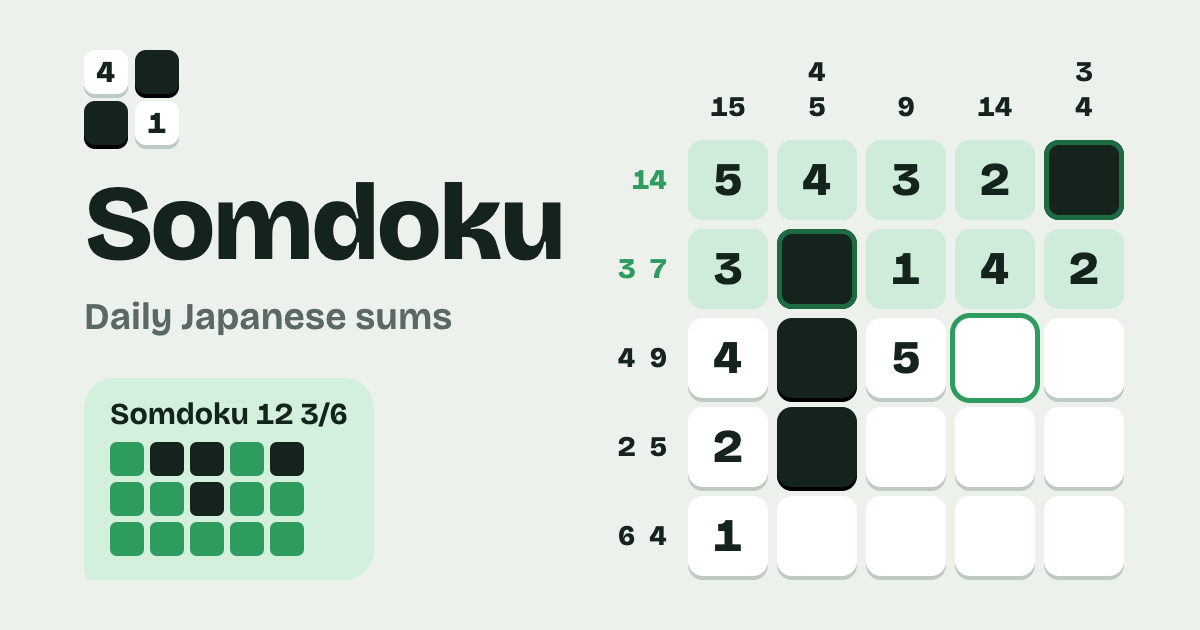
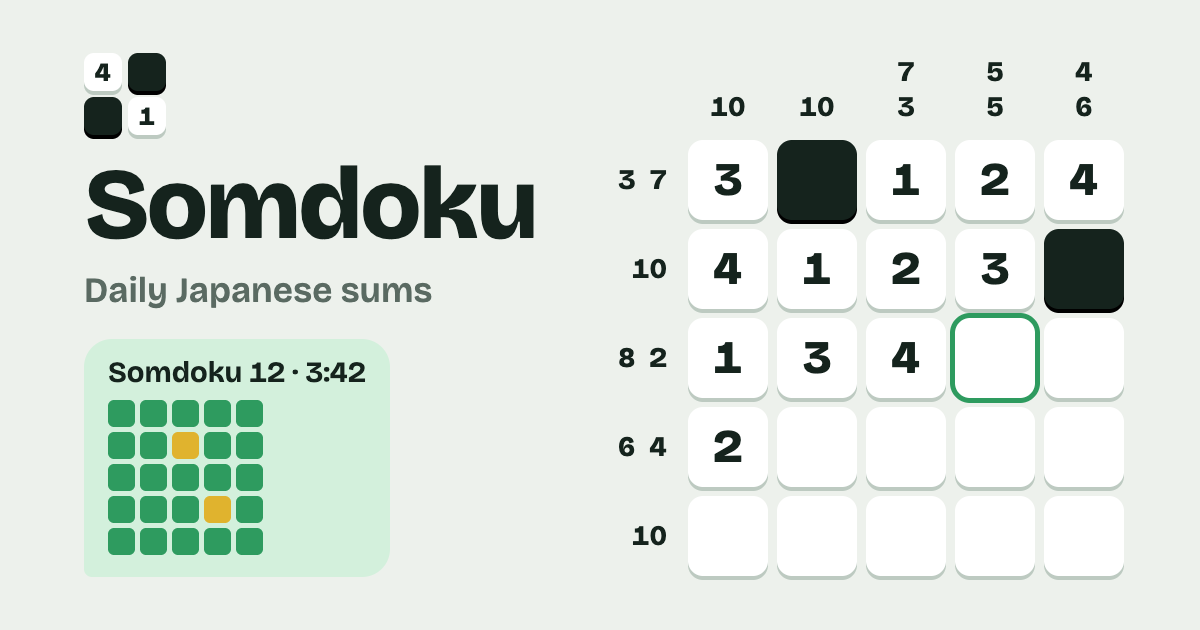
chore(art): update OG image for time score and timeline

diff --git a/art/og.html b/art/og.html
@@ -1,51 +1,50 @@
 <!doctype html>
-<!-- The picture WhatsApp shows with the link (public/og.png, 1200 x 630). To make it again:
-     "/Applications/Google Chrome.app/Contents/MacOS/Google Chrome" --headless=new --hide-scrollbars \
-       --force-device-scale-factor=1 --window-size=1200,630 --virtual-time-budget=4000 \
-       --screenshot=public/og.png art/og.html -->
+<!-- The picture WhatsApp shows with the link (public/og.png, 1200 x 630): the name, what a shared
+     score looks like, and a game under way. `npm run og` makes it again. The puzzle in it is not
+     one of the daily ones, so it gives nothing away. -->
 <meta charset="utf-8">
 <style>
   @font-face{font-family:B;font-weight:200 800;src:url("../node_modules/@fontsource-variable/bricolage-grotesque/files/bricolage-grotesque-latin-wght-normal.woff2") format("woff2-variations")}
   *{box-sizing:border-box;margin:0}
   body{width:1200px;height:630px;overflow:hidden;background:#EDF1EC;color:#15231D;font-family:B,sans-serif;font-variant-numeric:tabular-nums;
     display:grid;grid-template-columns:1fr auto;align-items:center;padding:0 76px 0 84px}
-  .mark{display:grid;grid-template-columns:repeat(2,44px);gap:7px;margin-bottom:26px}
-  .mark i{height:44px;border-radius:11px;background:#fff;box-shadow:0 4px 0 #BDCAC1;display:grid;place-items:center;font-style:normal;font-weight:800;font-size:30px}
+  .mark{display:grid;grid-template-columns:repeat(2,38px);gap:6px;margin-bottom:20px}
+  .mark i{height:38px;border-radius:10px;background:#fff;box-shadow:0 4px 0 #BDCAC1;display:grid;place-items:center;font-style:normal;font-weight:800;font-size:26px}
   .mark i.b{background:#15231D;box-shadow:0 4px 0 #000}
-  h1{font-size:106px;line-height:1;font-weight:800;letter-spacing:-.03em}
-  p{margin-top:18px;font-size:37px;line-height:1.2;font-weight:600;color:#5A6A62}
-  .bubble{display:inline-grid;gap:6px;margin-top:38px;padding:18px 26px 24px;background:#D3F0DC;border-radius:30px 30px 30px 8px}
-  .bubble b{font-size:30px;font-weight:650;margin-bottom:4px}
-  .bubble span{display:flex;gap:6px}
-  .bubble i{width:34px;height:34px;border-radius:7px;background:#2E9B5F}
-  .bubble i.x{background:#15231D}
+  h1{font-size:100px;line-height:1;font-weight:800;letter-spacing:-.03em}
+  p{margin-top:14px;font-size:35px;line-height:1.2;font-weight:600;color:#5A6A62}
+  /* a shared score: the time, and a square per cell in the order they were filled */
+  .bubble{display:inline-grid;gap:5px;margin-top:28px;padding:16px 24px 22px;background:#D3F0DC;border-radius:28px 28px 28px 8px}
+  .bubble b{font-size:29px;font-weight:650;margin-bottom:5px}
+  .bubble span{display:flex;gap:5px}
+  .bubble i{width:27px;height:27px;border-radius:6px;background:#2E9B5F}
+  .bubble i.y{background:#E0B32E}
   .board{display:grid;grid-template-columns:auto repeat(5,80px);gap:9px;font-weight:800}
   .clue{display:flex;font-size:28px;font-weight:750}
   .clue.col{flex-direction:column;justify-content:flex-end;align-items:center;line-height:1.25;padding-bottom:6px}
   .clue.row{justify-content:flex-end;align-items:center;gap:.5em;padding-right:12px}
-  .clue.ok{color:#2E9B5F}
   .cell{height:80px;border-radius:15px;background:#fff;box-shadow:0 4px 0 #BDCAC1;display:grid;place-items:center;font-size:46px;line-height:1}
-  .cell.ok{background:#CFEBD9;box-shadow:none}
   .cell.b{background:#15231D;box-shadow:0 4px 0 #000}
-  .cell.b.ok{box-shadow:inset 0 0 0 5px #1D6B40}
   .cell.sel{box-shadow:0 0 0 5px #2E9B5F}
 </style>
 <div>
   <div class="mark"><i>4</i><i class="b"></i><i class="b"></i><i>1</i></div>
   <h1>Somdoku</h1>
   <p>Daily Japanese sums</p>
-  <div class="bubble"><b>Somdoku 12 3/6</b>
-    <span><i></i><i class="x"></i><i class="x"></i><i></i><i class="x"></i></span>
-    <span><i></i><i></i><i class="x"></i><i></i><i></i></span>
+  <div class="bubble"><b>Somdoku 12 · 3:42</b>
+    <span><i></i><i></i><i></i><i></i><i></i></span>
+    <span><i></i><i></i><i class="y"></i><i></i><i></i></span>
+    <span><i></i><i></i><i></i><i></i><i></i></span>
+    <span><i></i><i></i><i></i><i class="y"></i><i></i></span>
     <span><i></i><i></i><i></i><i></i><i></i></span>
   </div>
 </div>
 <div class="board">
   <div></div>
-  <div class="clue col"><span>15</span></div><div class="clue col"><span>4</span><span>5</span></div><div class="clue col"><span>9</span></div><div class="clue col"><span>14</span></div><div class="clue col"><span>3</span><span>4</span></div>
-  <div class="clue row ok"><span>14</span></div><div class="cell ok">5</div><div class="cell ok">4</div><div class="cell ok">3</div><div class="cell ok">2</div><div class="cell b ok"></div>
-  <div class="clue row ok"><span>3</span><span>7</span></div><div class="cell ok">3</div><div class="cell b ok"></div><div class="cell ok">1</div><div class="cell ok">4</div><div class="cell ok">2</div>
-  <div class="clue row"><span>4</span><span>9</span></div><div class="cell">4</div><div class="cell b"></div><div class="cell">5</div><div class="cell sel"></div><div class="cell"></div>
-  <div class="clue row"><span>2</span><span>5</span></div><div class="cell">2</div><div class="cell b"></div><div class="cell"></div><div class="cell"></div><div class="cell"></div>
-  <div class="clue row"><span>6</span><span>4</span></div><div class="cell">1</div><div class="cell"></div><div class="cell"></div><div class="cell"></div><div class="cell"></div>
+  <div class="clue col"><span>10</span></div><div class="clue col"><span>10</span></div><div class="clue col"><span>7</span><span>3</span></div><div class="clue col"><span>5</span><span>5</span></div><div class="clue col"><span>4</span><span>6</span></div>
+  <div class="clue row"><span>3</span><span>7</span></div><div class="cell">3</div><div class="cell b"></div><div class="cell">1</div><div class="cell">2</div><div class="cell">4</div>
+  <div class="clue row"><span>10</span></div><div class="cell">4</div><div class="cell">1</div><div class="cell">2</div><div class="cell">3</div><div class="cell b"></div>
+  <div class="clue row"><span>8</span><span>2</span></div><div class="cell">1</div><div class="cell">3</div><div class="cell">4</div><div class="cell sel"></div><div class="cell"></div>
+  <div class="clue row"><span>6</span><span>4</span></div><div class="cell">2</div><div class="cell"></div><div class="cell"></div><div class="cell"></div><div class="cell"></div>
+  <div class="clue row"><span>10</span></div><div class="cell"></div><div class="cell"></div><div class="cell"></div><div class="cell"></div><div class="cell"></div>
 </div>

diff --git a/README.md b/README.md
@@ -26,5 +26,4 @@ files plus `tsc -b`, and commitlint on the message (Conventional Commits); on pu
 - `src/locales/`: English and Dutch translations (react-i18next).
 - `src/sw.ts`: the service worker, so the game installs as an app and works offline.
 - `functions/_middleware.ts`: sends www.somdoku.nl and somdoku.pages.dev on to somdoku.nl.
-- `art/`: source of the icon and `og.png`, the picture WhatsApp shows with the link; `npm run icons`
-  makes the icon again in every size, the top of `art/og.html` says how to make `og.png`.
+- `art/`: source of the icon and `og.png`; `npm run icons` and `npm run og` make them again.
